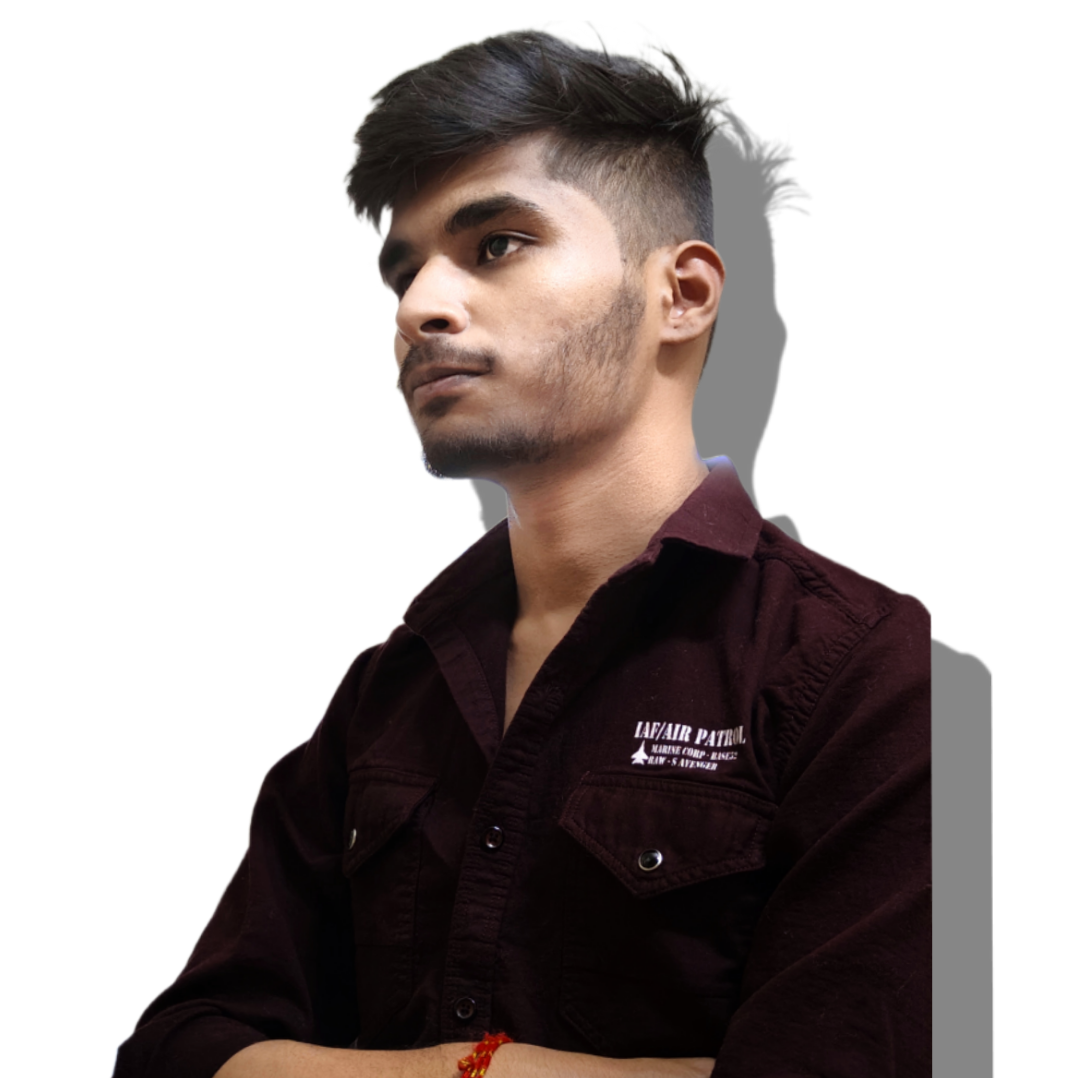
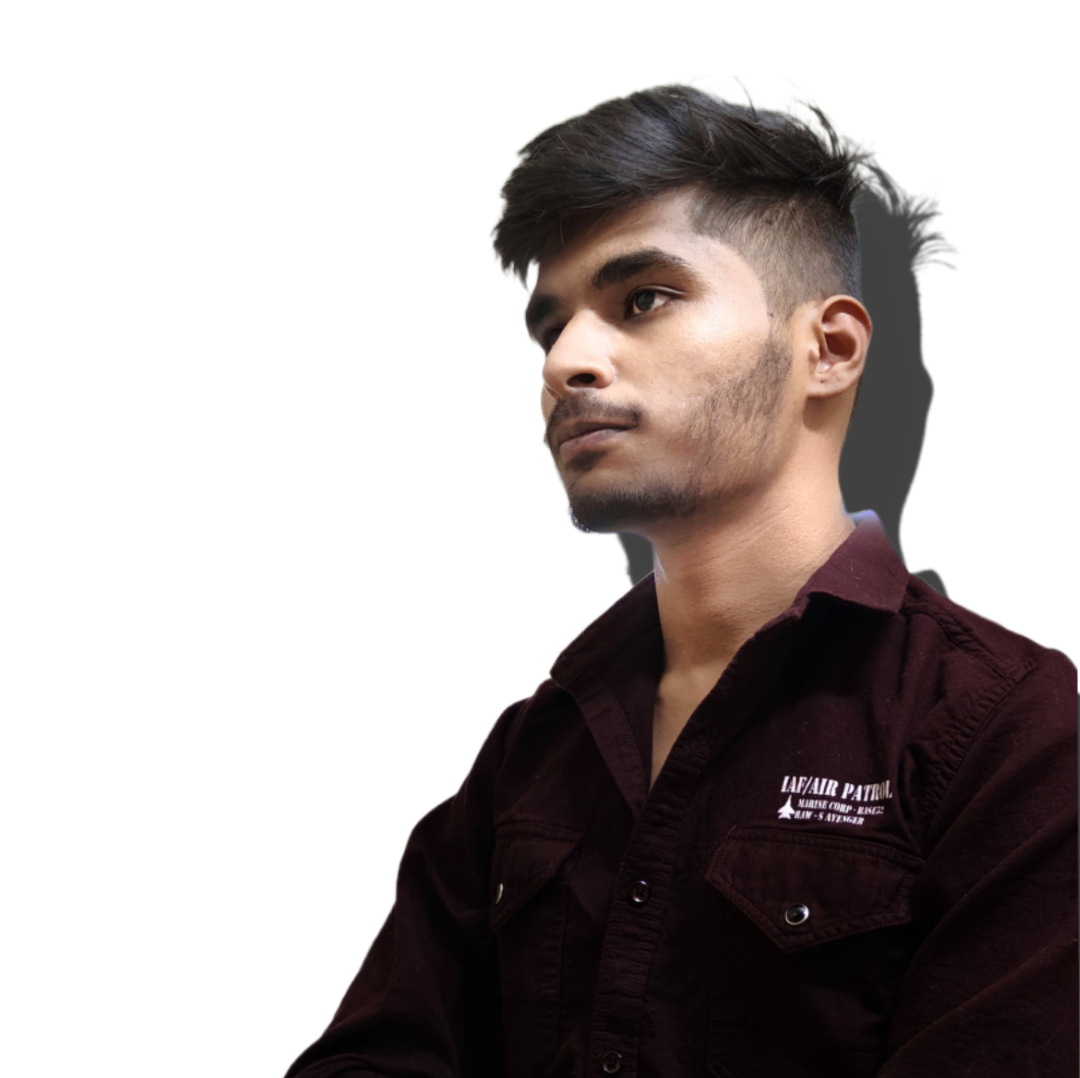
image fixed

diff --git a/components/css/MainBox.module.css b/components/css/MainBox.module.css
@@ -1,22 +1,26 @@
 .div {
-  width: 90%;
+  width: 100%;
   height: 95vh;
   display: flex;
   margin: auto;
 
   /* margin-top: 80px; */
-  justify-content: center;
+  justify-content: space-evenly;
   align-items: center;
 }
 
 .left {
-  width: 40%;
+ 
+  /* width: 50%; */
+  /* margin-left: 10px; */
   display: flex;
   flex-direction: column;
   justify-content: center;
-
+  /* align-items: center; */
   gap: 3px;
 }
+
+
 
 .locationParent {
   display: flex;
@@ -48,7 +52,7 @@
 .img1 {
   width: 800px;
   height: auto;
-  /* float: left; */
+  overflow: hidden;
 }
 
 .iconContainer {
